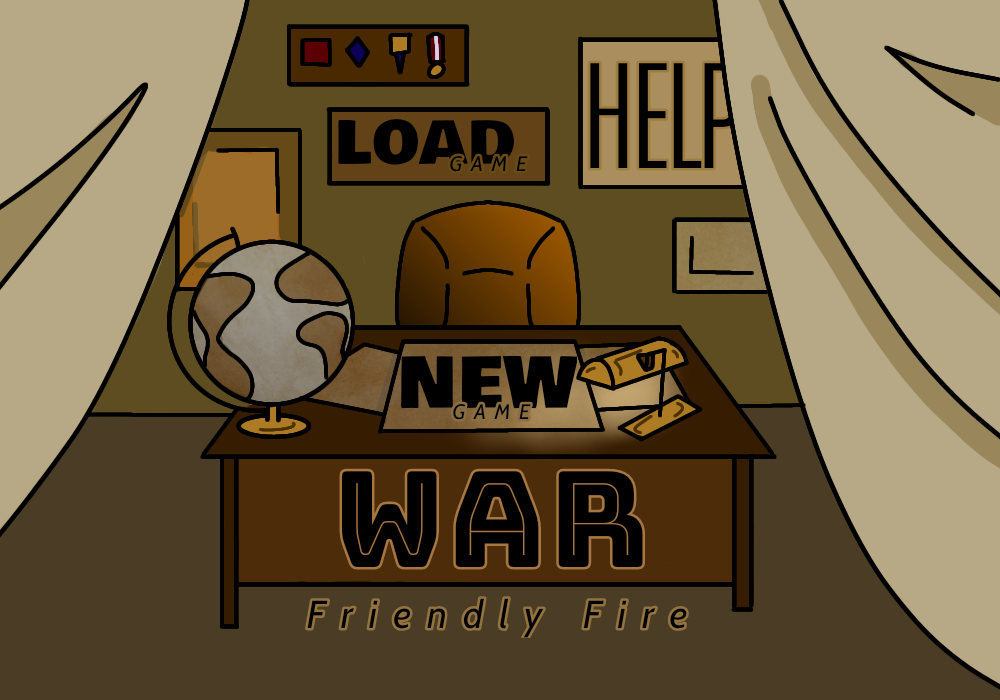
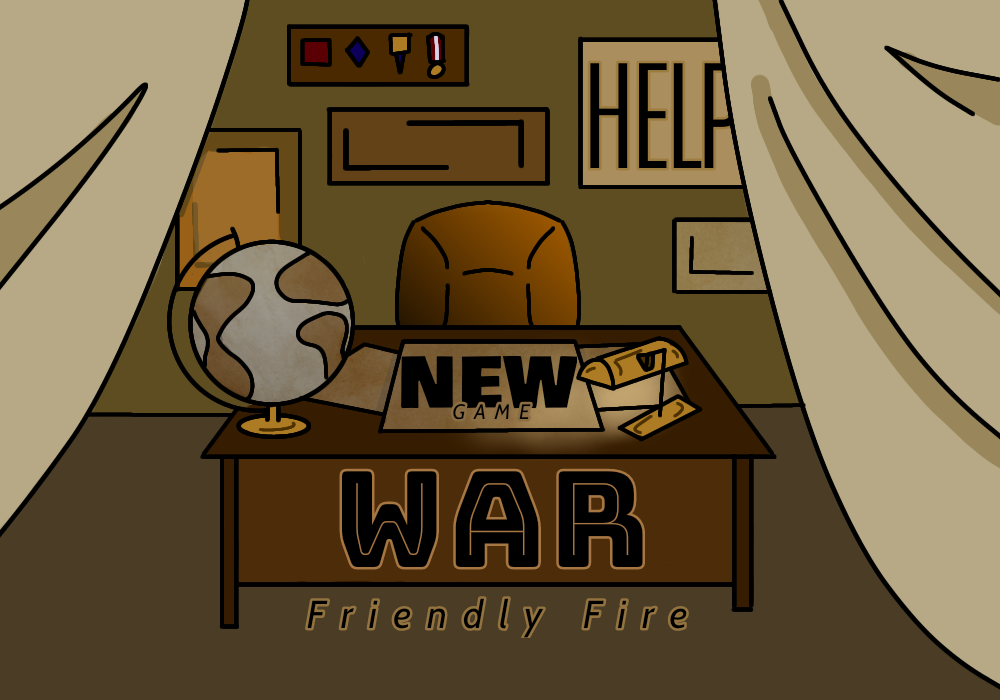
Got rid of save game

Changed region(s): [[0.341, 0.15, 0.527, 0.27]]

diff --git a/battleship.py b/battleship.py
@@ -92,7 +92,7 @@ class UNIT:
 # Paratrooper - 1x2 - Draw Outline
 class PA(UNIT):
     def __init__(self, side: int):
-        UNIT.__init__(self, (1, 2), side, 'pa', (12, 5), 'PARA.png', '')
+        UNIT.__init__(self, (1, 2), side, 'pa', (12, 5), 'PARA.png', 'Dpara.png')
         self.dragImage = image.load('Ships/dragPara.png')
         self.dragImage = [self.dragImage, transform.rotate(self.dragImage, 90)]
 
@@ -144,7 +144,7 @@ class TK(UNIT):
 # Finish Later - War Train - 1x5
 class WT(UNIT):
     def __init__(self, side: int):
-        UNIT.__init__(self, (1, 5), side, 'wt', (13, 5), 'WARTRAIN.png', '')
+        UNIT.__init__(self, (1, 5), side, 'wt', (13, 5), 'WARTRAIN.png', 'Dtrain.png')
 
 
 class Button:
@@ -280,7 +280,7 @@ aBG = image.load('UI/AG.png')
 PAUSE = image.load('UI/PAUSE.png')
 SPLIT = image.load('UI/SPLIT.png')
 
-pBTN = Button((910, 0), 'UI/AHIT.png')  # Change later
+pBTN = Button((910, 0), 'UI/pauseBTN.png')
 
 AIM = CROSS('UI/CROSSHAIR.png', 20)
 CUR = CROSS('UI/CURSOR.png')
@@ -307,7 +307,6 @@ Help5 = image.load('UI/HELP (4).png')
 Help = [Help1,Help2,Help3,Help4,Help5]
 
 ResumeG = Button((200,160),(615,60))
-SaveG = Button((260,280),(490,66))
 Forfit = Button((330,440),(365,65))
 # MENU
 inMenu = True
@@ -320,8 +319,6 @@ while inMenu:
         elif Event.type == MOUSEBUTTONUP:
             if newG.click(Event):
                 inMenu = False
-            elif loadG.click(Event):
-                print("Loaded Game")
             elif HELP.click(Event):
                 inHelp = True
                 helpSlide = 0
@@ -342,7 +339,6 @@ while inMenu:
                 print(Event.pos)
 
     display.update()
-
 
 
 # PLACING PHASE
@@ -453,14 +449,8 @@ while inGame:
                         elif Event.type == MOUSEBUTTONUP:
                             if ResumeG.click(Event):
                                 Paused = False
-                            elif SaveG.click(Event):
-                                print("Game Saved")  # Change
-                                #save(GRIDS,HITGRIDS)
-                                #quit()
                             elif Forfit.click(Event):
                                 quit()  # Change
-                            else:
-                                print(Event.pos)
 
                 for Event in event.get():
                     if Event.type == QUIT:
@@ -470,9 +460,6 @@ while inGame:
                             Menu = 1
                         elif pBTN.click(Event):
                             Paused = True
-
-
-
 
             elif Menu == 1:
                 win.blit(aBG, (0, 0))
